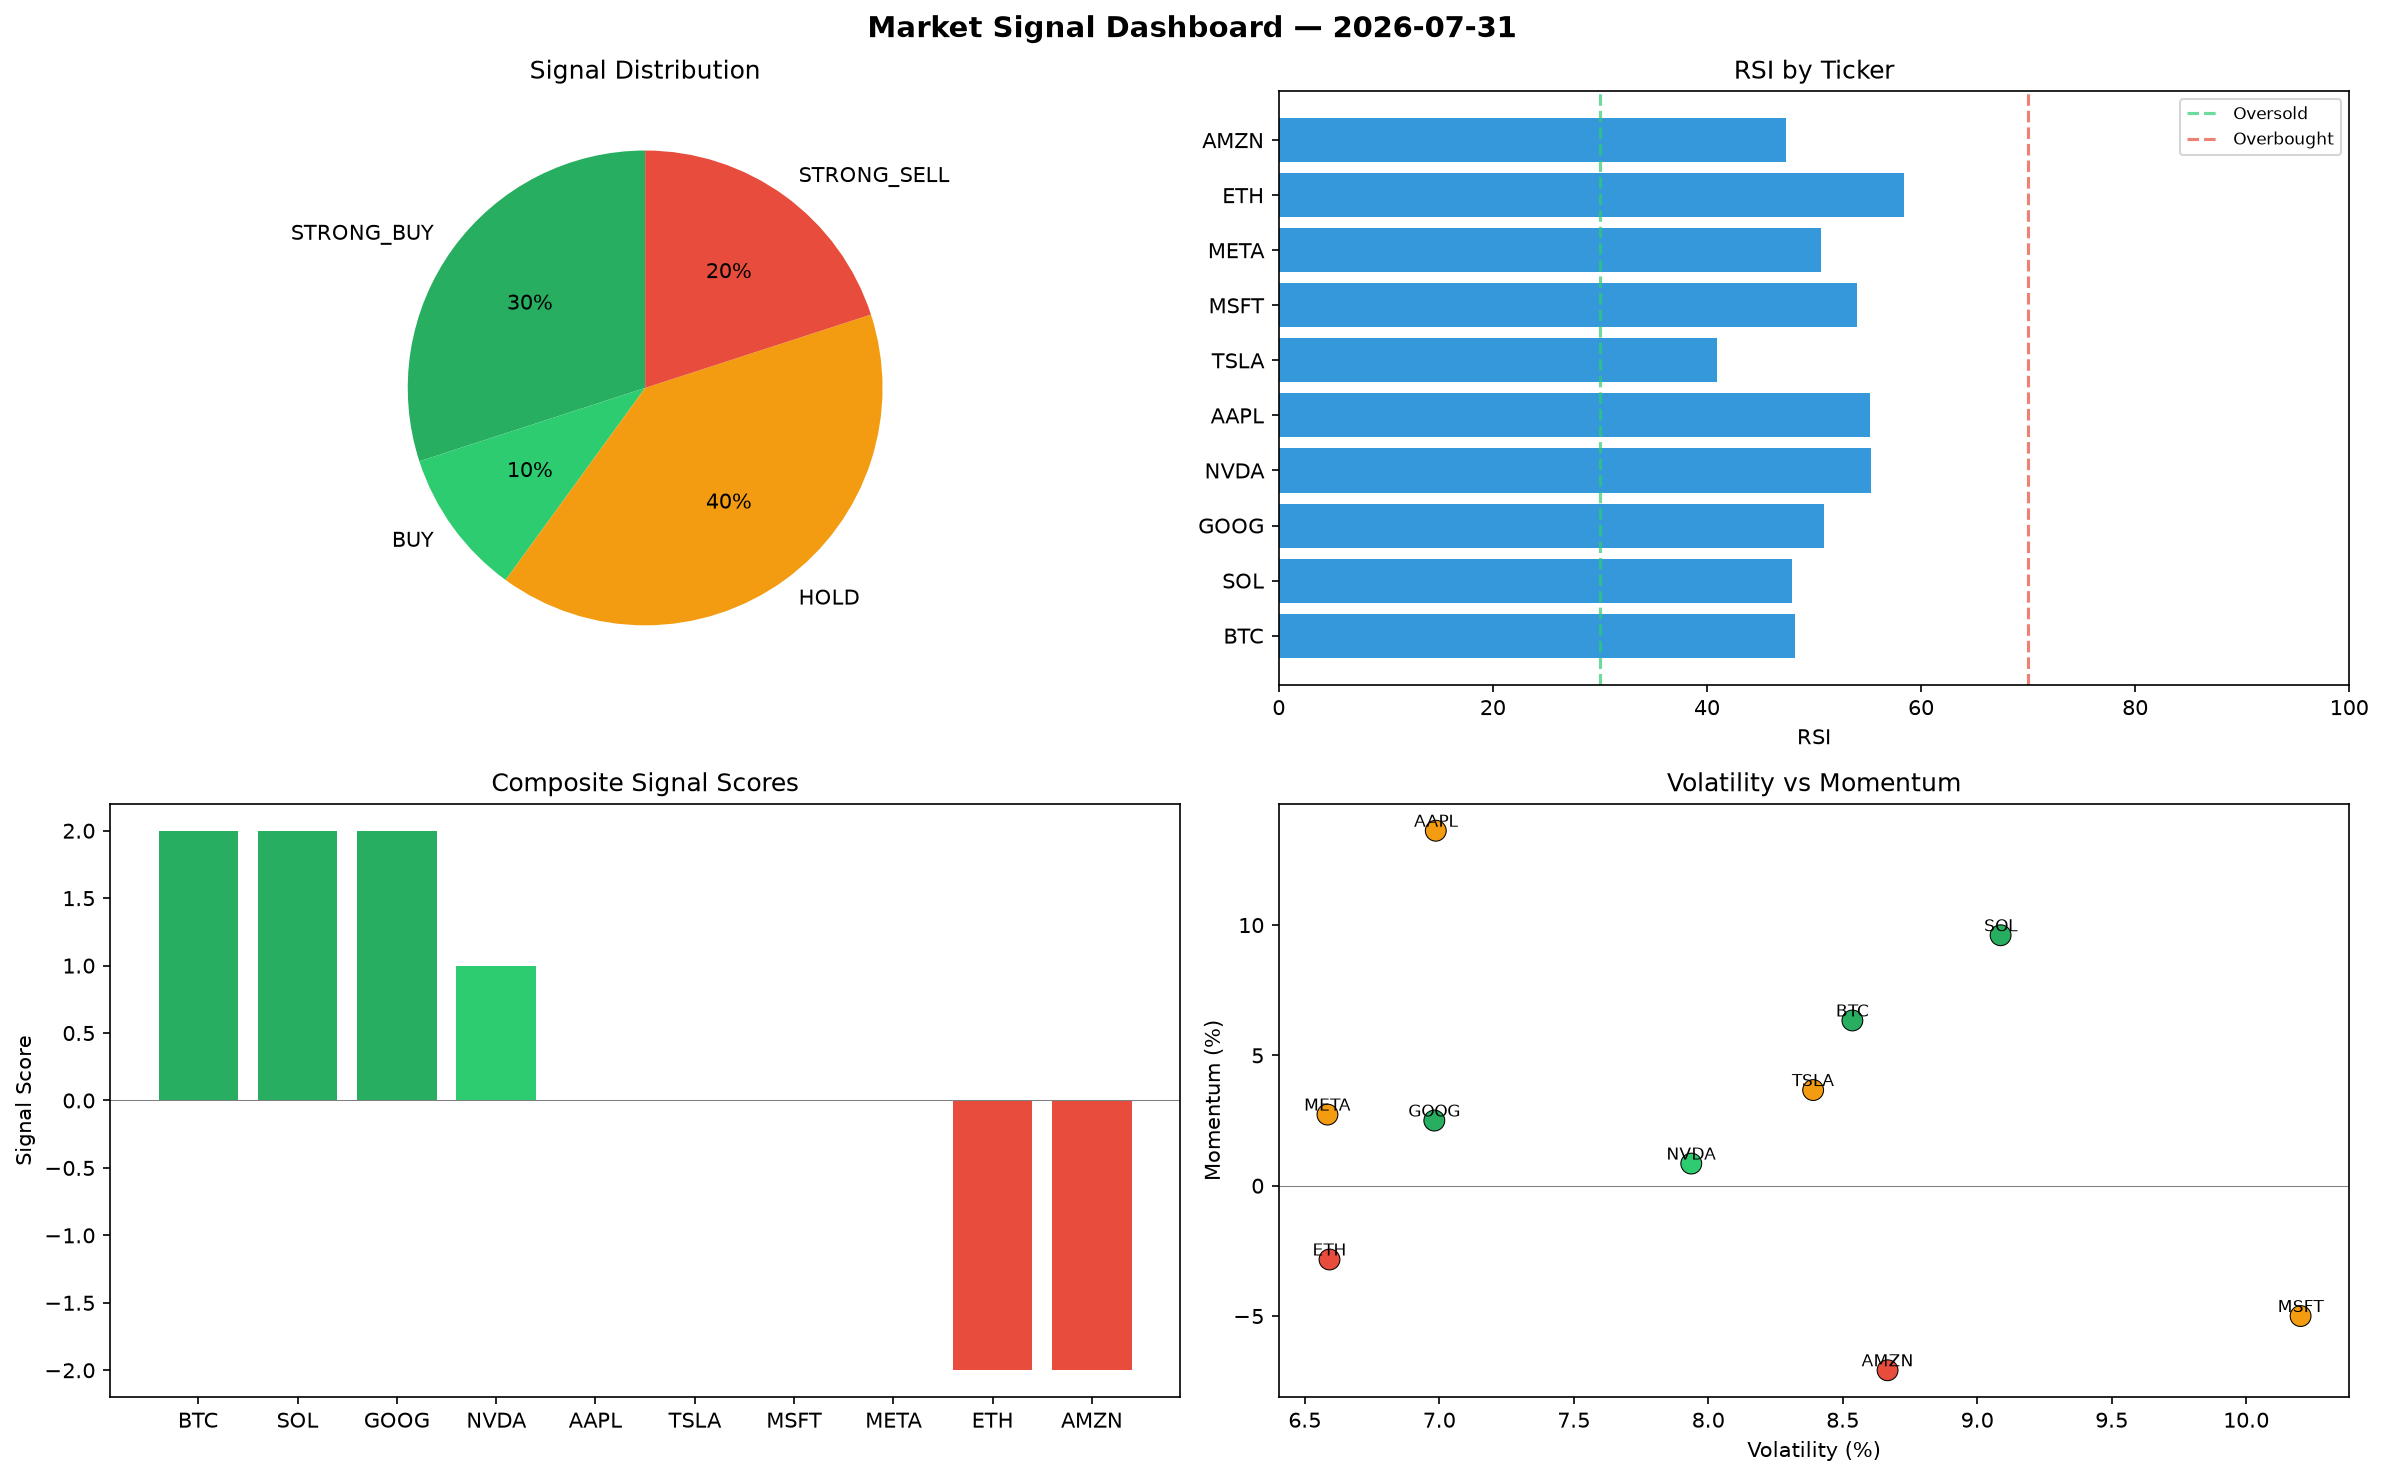
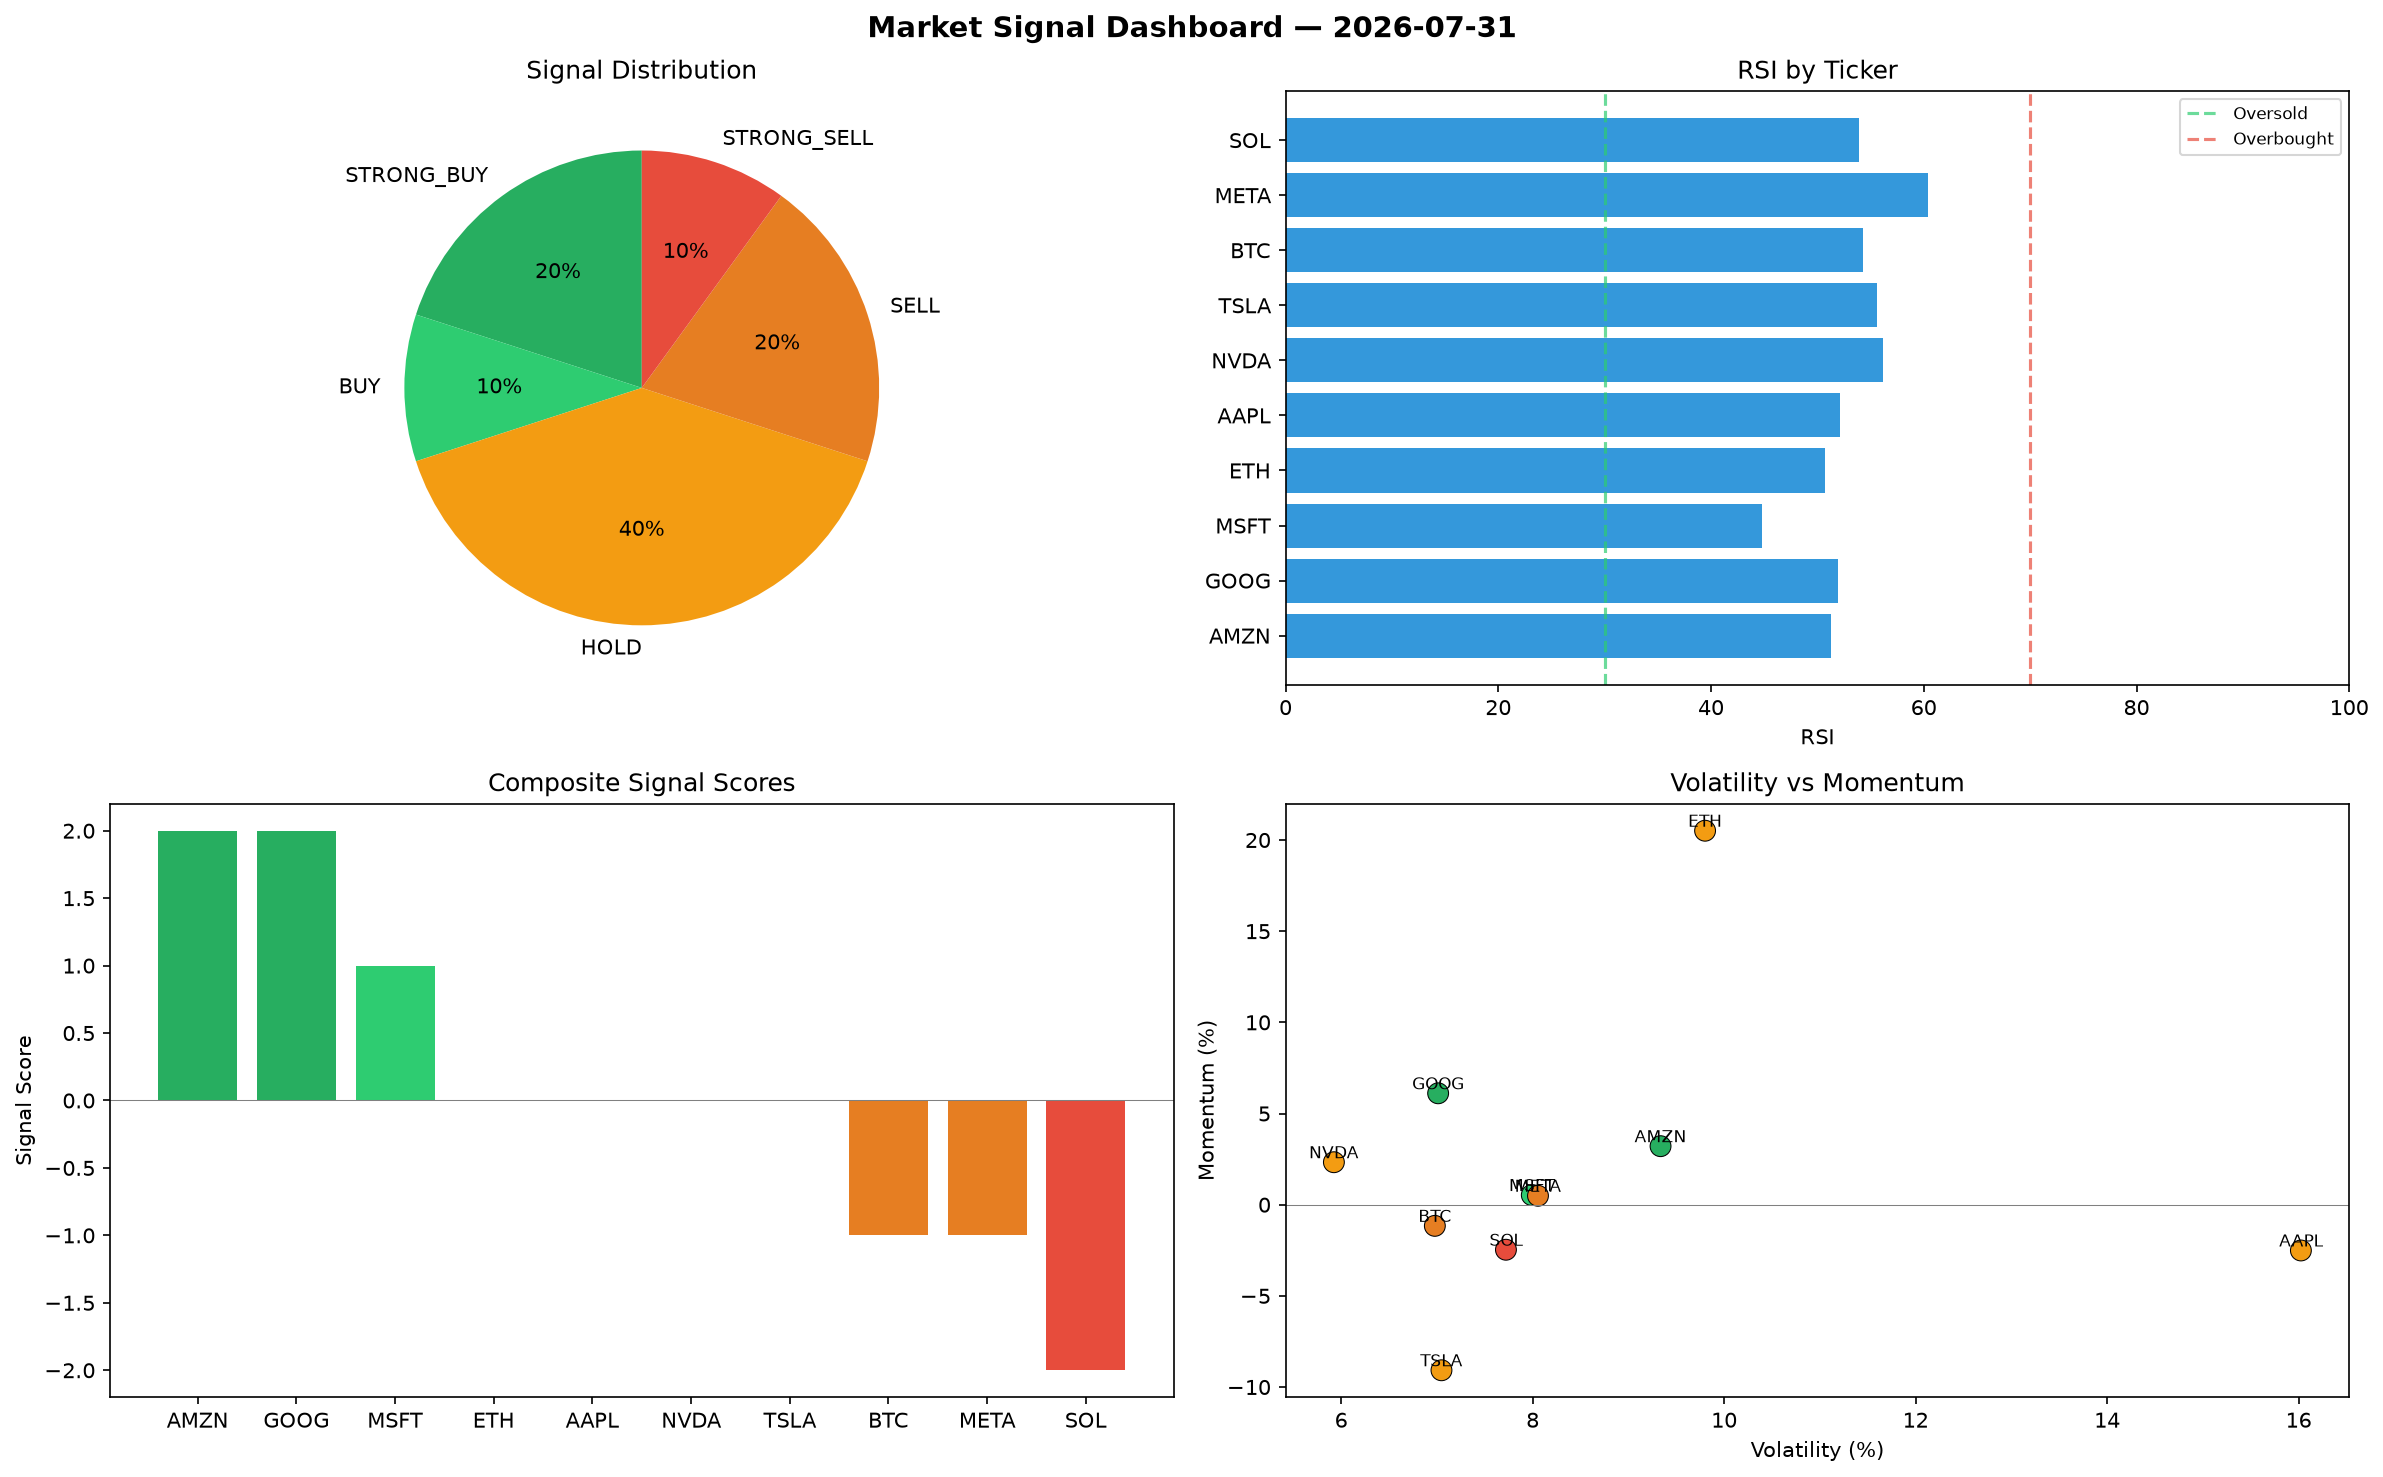
automated-bots: market signals 2026-07-31T11:04

diff --git a/logs/2026-07-31.md b/logs/2026-07-31.md
@@ -1,6 +1,6 @@
 # Market Signal Report — 2026-07-31
 
-**Run ID:** `187675ff44` | **Buy:** 4 | **Sell:** 2 | **Hold:** 4
+**Run ID:** `484759b9a1` | **Buy:** 3 | **Sell:** 3 | **Hold:** 4
 
 ![Dashboard](2026-07-31_dashboard.png)
 
@@ -8,28 +8,28 @@
 
 | Ticker | Price | Signal | Score | RSI | Momentum | Confidence |
 |--------|-------|--------|-------|-----|----------|------------|
-| BTC | $3665.07 | **STRONG_BUY** | 2 | 48.19 | 0.0634 | 0.5 |
-| SOL | $2249.39 | **STRONG_BUY** | 2 | 47.97 | 0.0961 | 0.5 |
-| GOOG | $3953.62 | **STRONG_BUY** | 2 | 50.89 | 0.025 | 0.5 |
-| NVDA | $1957.78 | **BUY** | 1 | 55.31 | 0.0085 | 0.25 |
-| AAPL | $13.43 | **HOLD** | 0 | 55.23 | 0.1362 | 0.0 |
-| TSLA | $3020.47 | **HOLD** | 0 | 40.89 | 0.0367 | 0.0 |
-| MSFT | $1292.53 | **HOLD** | 0 | 54.05 | -0.05 | 0.0 |
-| META | $105.49 | **HOLD** | 0 | 50.65 | 0.0273 | 0.0 |
-| ETH | $4830.07 | **STRONG_SELL** | -2 | 58.41 | -0.0283 | 0.5 |
-| AMZN | $3154.79 | **STRONG_SELL** | -2 | 47.41 | -0.0708 | 0.5 |
+| AMZN | $2392.08 | **STRONG_BUY** | 2 | 51.29 | 0.0321 | 0.5 |
+| GOOG | $428.45 | **STRONG_BUY** | 2 | 51.98 | 0.0611 | 0.5 |
+| MSFT | $4206.85 | **BUY** | 1 | 44.8 | 0.0053 | 0.25 |
+| ETH | $4482.68 | **HOLD** | 0 | 50.69 | 0.2051 | 0.0 |
+| AAPL | $4639.88 | **HOLD** | 0 | 52.16 | -0.0251 | 0.0 |
+| NVDA | $4440.43 | **HOLD** | 0 | 56.15 | 0.0233 | 0.0 |
+| TSLA | $2515.92 | **HOLD** | 0 | 55.57 | -0.0908 | 0.0 |
+| BTC | $3683.93 | **SELL** | -1 | 54.25 | -0.0116 | 0.25 |
+| META | $4805.81 | **SELL** | -1 | 60.37 | 0.0049 | 0.25 |
+| SOL | $191.24 | **STRONG_SELL** | -2 | 53.87 | -0.0247 | 0.5 |
 
 ## Delta vs Yesterday
 
 | Ticker | Today | Yesterday | Price Change | Signal Changed |
 |--------|-------|-----------|-------------|----------------|
-| BTC | STRONG_BUY | BUY | 📈 17.2% | ⚠ YES |
-| SOL | STRONG_BUY | SELL | 📉 -46.01% | ⚠ YES |
-| GOOG | STRONG_BUY | SELL | 📈 79.44% | ⚠ YES |
-| NVDA | BUY | HOLD | 📉 -15.98% | ⚠ YES |
-| AAPL | HOLD | BUY | 📉 -99.32% | ⚠ YES |
-| TSLA | HOLD | STRONG_BUY | 📈 102.4% | ⚠ YES |
-| MSFT | HOLD | STRONG_BUY | 📉 -26.4% | ⚠ YES |
-| META | HOLD | STRONG_SELL | 📉 -88.29% | ⚠ YES |
-| ETH | STRONG_SELL | SELL | 📈 445.74% | ⚠ YES |
-| AMZN | STRONG_SELL | STRONG_SELL | 📈 98.5% | — |
+| AMZN | STRONG_BUY | STRONG_SELL | 📈 50.51% | ⚠ YES |
+| GOOG | STRONG_BUY | SELL | 📉 -80.55% | ⚠ YES |
+| MSFT | BUY | STRONG_BUY | 📈 139.56% | ⚠ YES |
+| ETH | HOLD | SELL | 📈 406.49% | ⚠ YES |
+| AAPL | HOLD | BUY | 📈 134.92% | ⚠ YES |
+| NVDA | HOLD | HOLD | 📈 90.57% | — |
+| TSLA | HOLD | STRONG_BUY | 📈 68.59% | ⚠ YES |
+| BTC | SELL | BUY | 📈 17.8% | ⚠ YES |
+| META | SELL | STRONG_SELL | 📈 433.58% | ⚠ YES |
+| SOL | STRONG_SELL | SELL | 📉 -95.41% | ⚠ YES |
